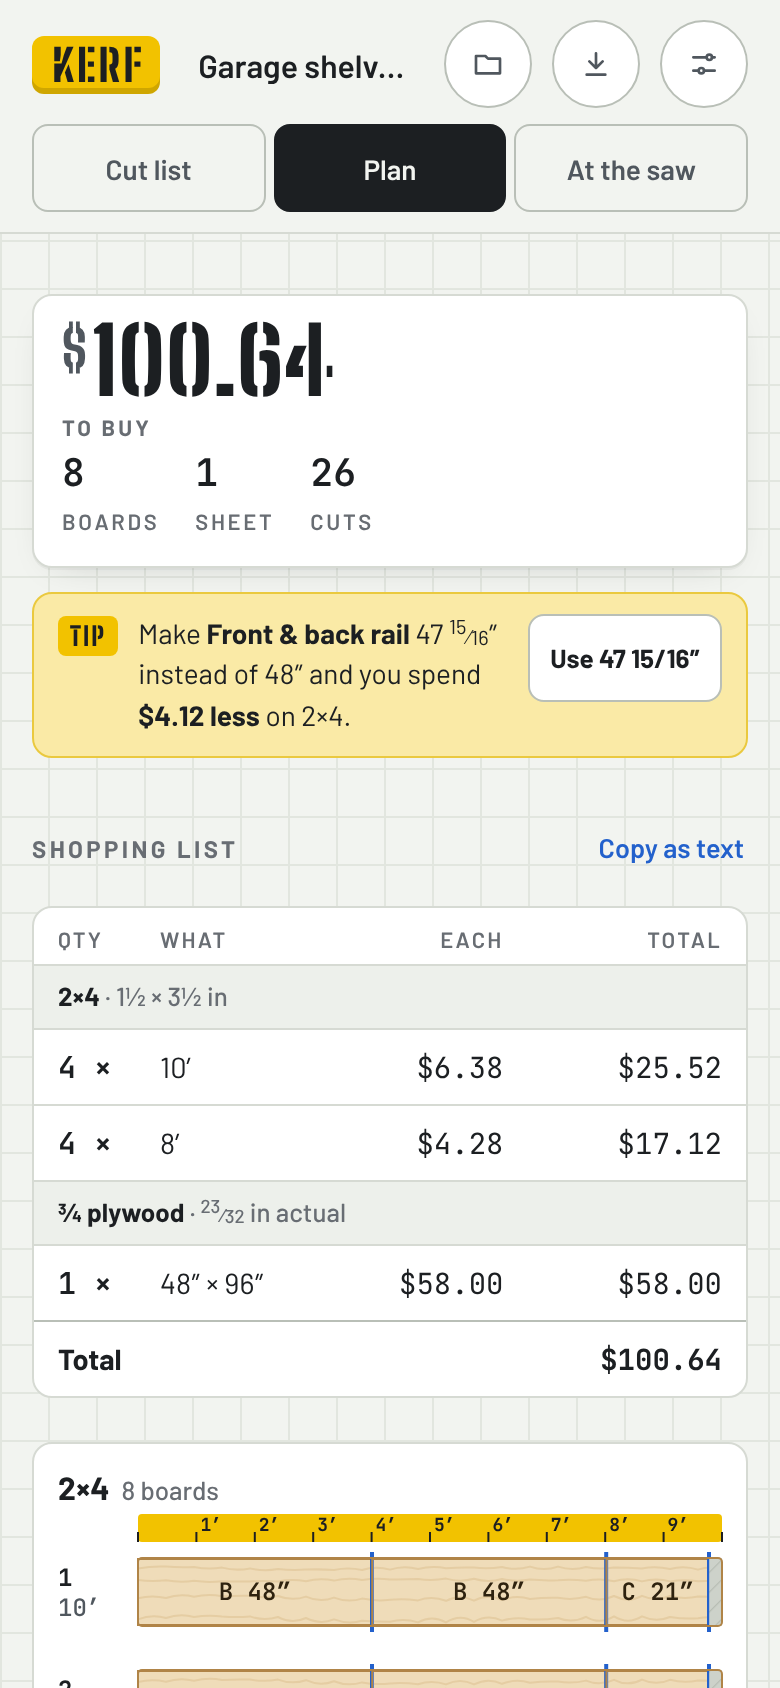
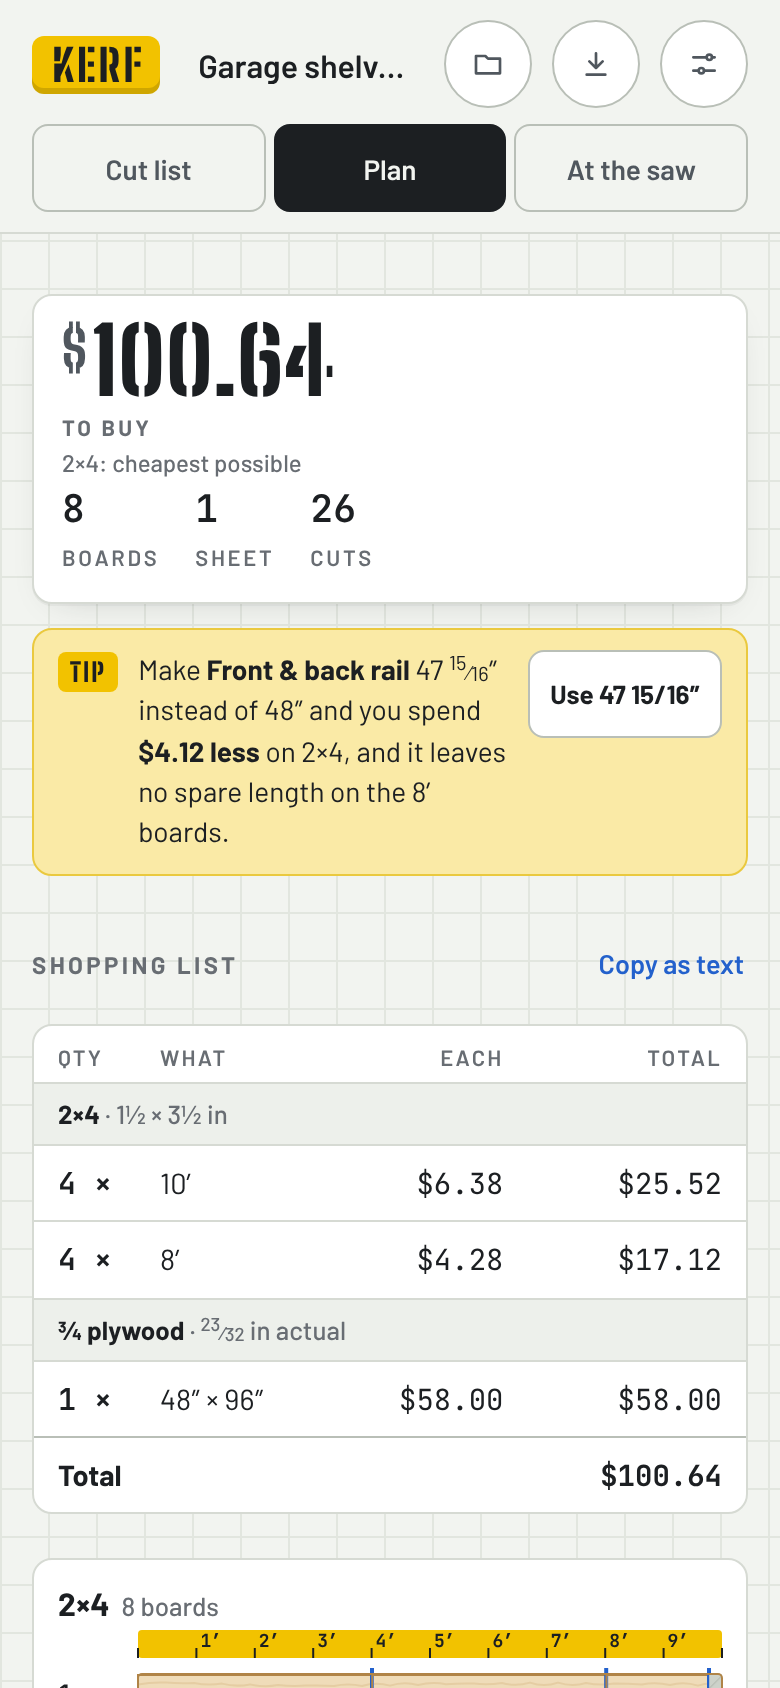
Redraw the plan's picture with the tip's new words and Cheapest possible
The README's phone picture of the plan now shows "2×4: cheapest possible" under the total and the tip ending "and it
leaves no spare length on the 8′ boards", and its description says so. The other pictures didn't change.

Claude-Session: https://claude.ai/code/session_01PQbLNSZBMRZG8siQy7LTL3

diff --git a/README.md b/README.md
@@ -7,7 +7,7 @@
 <p align="center">
   <img src="docs/phone-list.png" alt="The cut list for a set of garage shelves: how to type lengths, then the 2×4 legs, front and back rails and side rails, each named on one line with its quantity and length below, above the 2×4 sizes you can buy and what they cost" width="250">
   &nbsp;
-  <img src="docs/phone-plan.png" alt="The plan: $100.64 to buy for 8 boards and 1 sheet in 26 cuts, a tip that making the front and back rails 47 15/16 inches instead of 48 means spending $4.12 less on 2×4, and the shopping list" width="250">
+  <img src="docs/phone-plan.png" alt="The plan: $100.64 to buy, the 2×4s the cheapest possible, for 8 boards and 1 sheet in 26 cuts, a tip that making the front and back rails 47 15/16 inches instead of 48 means spending $4.12 less on 2×4 and leaves no spare length on the 8-foot boards, and the shopping list" width="250">
   &nbsp;
   <img src="docs/phone-saw.png" alt="At the saw, 4 of 26 cuts done: board 1, a 10-foot 2×4, with its three cuts ticked off and a 2 5/8 inch offcut left, and the first cut on board 2 ticked, with the second marked as the next cut" width="250">
 </p>
